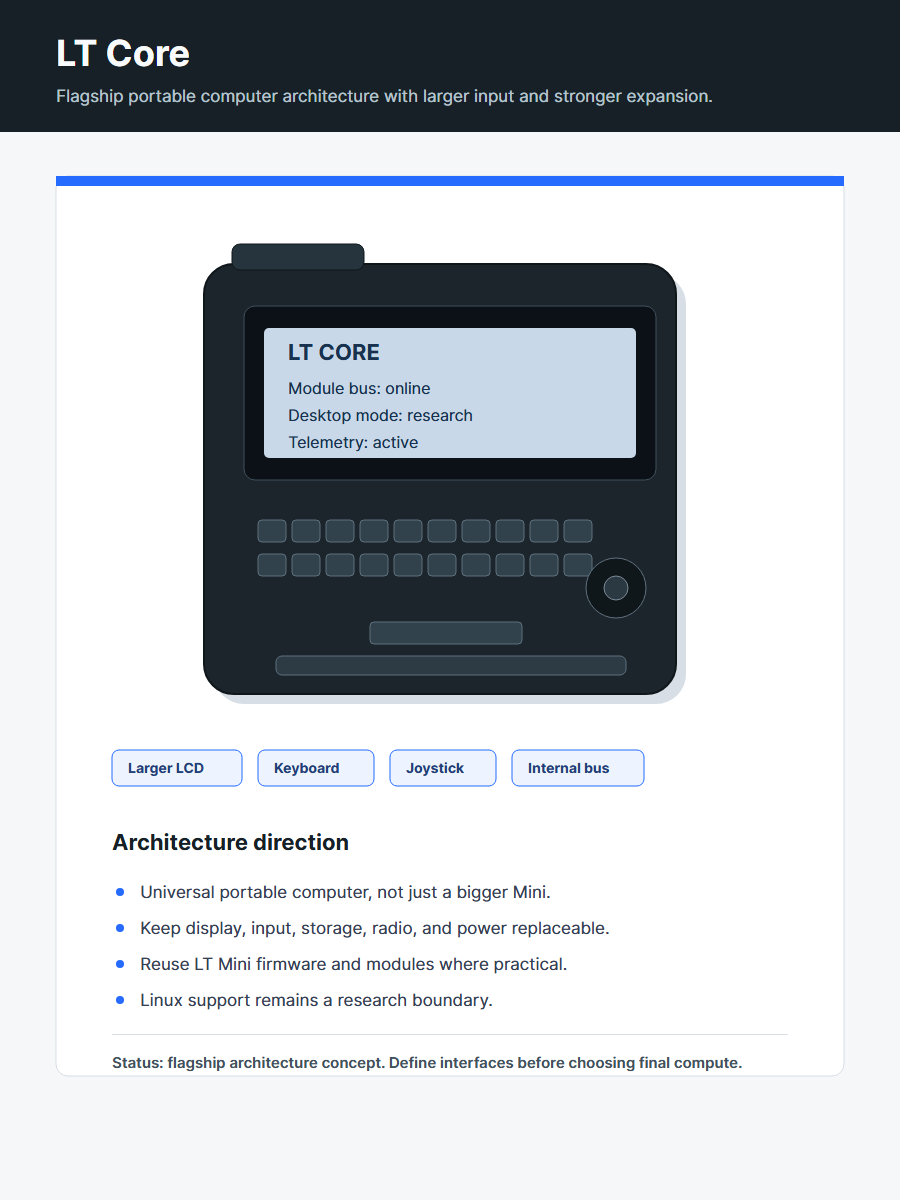
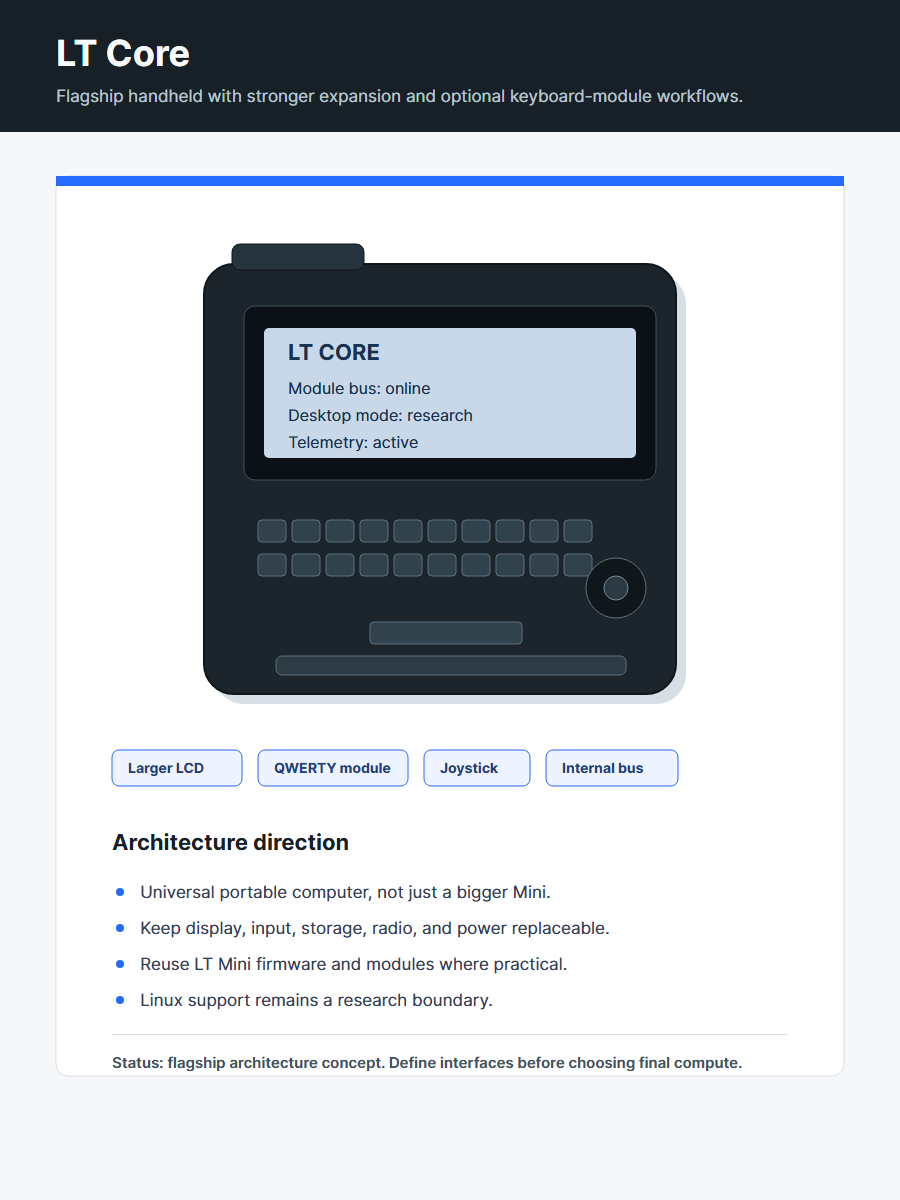
Document modular keyboard direction

Changed region(s): [[0.1556, 0.0617, 0.8089, 0.0925], [0.3111, 0.6167, 0.7156, 0.6475]]

diff --git a/07-industrial-design/form-factor.md b/07-industrial-design/form-factor.md
@@ -1,0 +1,50 @@
+# Form Factor Direction
+
+This document tracks the current physical design direction for LT devices.
+
+## Family Shape
+
+The LT device family should use a consistent handheld shape: rounded, compact,
+tool-like, and closer to a Flipper Zero-style utility device than to a phone or
+tablet.
+
+This is a form-factor reference, not a cloning target. LT should keep its own
+industrial language, connector system, module rules, and interaction model.
+
+## Shared Traits
+
+| Trait | Direction |
+| --- | --- |
+| Body | Rounded handheld enclosure with strong corner radii. |
+| Display | Small functional display, not a media-first screen. |
+| Primary input | Joystick/buttons on the base device. |
+| Keyboard | External or attachable input module unless a product explicitly requires it. |
+| Expansion | Visible connector/module strategy. |
+| Antenna | RF placement treated as an engineering constraint, not decoration. |
+
+## Keyboard Direction
+
+QWERTY should be treated as an input module first.
+
+The base LT Mini should stay simple. LT Core can support keyboard workflows
+through an input module. LT Core Pro may have a more integrated mini-keyboard
+direction, inspired by compact engineering devices like M5Stack Cardputer, but
+it should still preserve the ecosystem module architecture.
+
+## Product Notes
+
+| Product | Form Direction |
+| --- | --- |
+| LT Mini | Flipper-like compact handheld, no built-in QWERTY. |
+| LT Core | Larger Flipper-like handheld with stronger expansion and optional input module support. |
+| LT Core Pro | Linux-capable direction with Raspberry Pi Zero 2 W research and a compact keyboard workflow. |
+
+## Open Questions
+
+| Question | Status |
+| --- | --- |
+| Exact enclosure dimensions | TBD |
+| Module mounting mechanism | TBD |
+| Keyboard module connector | TBD |
+| Antenna location | TBD |
+| Battery and PCB stack height | TBD |

diff --git a/05-modules/input/qwerty-keyboard-module.md b/05-modules/input/qwerty-keyboard-module.md
@@ -1,0 +1,55 @@
+# QWERTY Keyboard Input Module
+
+The QWERTY keyboard should be designed as an input module before it is treated
+as a built-in feature.
+
+This keeps LT Mini simple and lets LT Core-class devices support typing,
+terminal workflows, and command entry without forcing every device to carry a
+keyboard.
+
+## Purpose
+
+- text input
+- terminal commands
+- shortcuts
+- scripting workflows
+- configuration entry
+- desktop-tool interaction
+
+## Reference Direction
+
+M5Stack Cardputer is a useful reference for compact keyboard density and
+engineering-tool interaction. It should be treated as a reference for layout
+thinking, not as a product to copy.
+
+Relevant traits:
+
+- compact 56-key keyboard direction
+- small display + keyboard workflow
+- pocket engineering-tool form factor
+- expansion-friendly device style
+
+## Module Requirements
+
+| Requirement | Status | Notes |
+| --- | --- | --- |
+| Connector | TBD | Must match LT expansion strategy. |
+| Electrical interface | TBD | I2C, UART, GPIO matrix, or custom scan controller are all candidates. |
+| Power budget | TBD | Must not break handheld battery goals. |
+| Mounting | TBD | Should be mechanically stable and removable. |
+| Firmware API | TBD | Should expose key events, not raw GPIO details. |
+
+## Firmware Rules
+
+- Keep keyboard scanning isolated in a driver or module service.
+- Expose normalized key events to applications.
+- Support modifier keys without hard-coding one physical layout into the UI.
+- Keep base-device navigation usable without the keyboard module.
+
+## Product Fit
+
+| Product | Keyboard Role |
+| --- | --- |
+| LT Mini | External module only. |
+| LT Core | Optional module or future variant support. |
+| LT Core Pro | Strong candidate for integrated or semi-integrated mini-keyboard workflow. |

diff --git a/07-industrial-design/concept-board.md b/07-industrial-design/concept-board.md
@@ -8,6 +8,7 @@ The current boards are concept artifacts, not final mechanical designs:
 - [`lt-mini-concept.svg`](lt-mini-concept.svg)
 - [`lt-core-concept.svg`](lt-core-concept.svg)
 - [`lt-core-pro-concept.svg`](lt-core-pro-concept.svg)
+- [`lt-qwerty-input-module-concept.svg`](lt-qwerty-input-module-concept.svg)
 
 PNG exports are generated from the SVG files for easier viewing on GitHub and
 mobile devices:
@@ -16,14 +17,16 @@ mobile devices:
 - [`lt-mini-concept.png`](lt-mini-concept.png)
 - [`lt-core-concept.png`](lt-core-concept.png)
 - [`lt-core-pro-concept.png`](lt-core-pro-concept.png)
+- [`lt-qwerty-input-module-concept.png`](lt-qwerty-input-module-concept.png)
 
 ## Included Products
 
 | Product | Visual Direction |
 | --- | --- |
 | LT Mini | Compact MVP handheld with LCD, joystick, LoRa, USB-C, and expansion direction. |
-| LT Core | Larger flagship handheld with keyboard, joystick, larger display, and internal expansion direction. |
-| LT Core Pro | Future higher-end Core variant with compute-module, Linux, dock, and shared-bus direction. |
+| LT Core | Larger flagship handheld with joystick, larger display, internal expansion, and optional keyboard-module direction. |
+| LT Core Pro | Future higher-end Core variant with compute-module, Linux, compact keyboard workflow, dock, and shared-bus direction. |
+| QWERTY Input Module | External keyboard module direction for terminal and command workflows. |
 
 ## Design Status
 
@@ -42,3 +45,5 @@ mobile devices:
 - Validate real dimensions before PCB or enclosure work.
 - Keep LT Mini visually simple and MVP-focused.
 - Keep LT Core Pro as an extension of LT Core, not a separate ecosystem.
+- Treat QWERTY as a module-first input system unless a later product decision
+  explicitly makes it built in.

diff --git a/02-lt-core/overview.md b/02-lt-core/overview.md
@@ -13,7 +13,7 @@ LT Core should provide:
 - a larger and more capable interface than LT Mini
 - modular hardware expansion
 - internal expansion bus planning
-- keyboard and joystick input options
+- joystick and optional keyboard-module input options
 - desktop mode research
 - Linux-capable future variants
 - strong reuse with LT Mini firmware and modules where practical
@@ -23,7 +23,7 @@ LT Core should provide:
 | Option | Status | Notes |
 | --- | --- | --- |
 | ESP32-S3 | Research | Useful for low-power control, simple UI, and firmware reuse. |
-| Raspberry Pi Zero 2W | Future research | Possible Linux-capable compute option. |
+| Raspberry Pi Zero 2 W | Future research | Possible Linux-capable compute option for Core/Pro-class devices. |
 | Newer compute module | Future research | Should be evaluated only when requirements justify it. |
 
 ## Design Requirements
@@ -40,7 +40,7 @@ LT Core should provide:
 | --- | --- |
 | Final compute architecture | TBD |
 | Display size and interface | TBD |
-| Keyboard layout | TBD |
+| Keyboard module interface | TBD |
 | Internal expansion connector | TBD |
 | Linux support boundary | TBD |
 | Battery and charging architecture | TBD |

diff --git a/02-lt-core/built-in-controls.md b/02-lt-core/built-in-controls.md
@@ -14,15 +14,16 @@ The goal is to keep the device small, inexpensive, and easy to prototype.
 
 ## LT Core Direction
 
-LT Core may use a larger input system:
+LT Core may support a larger input system:
 
-- keyboard
 - joystick
 - function buttons
 - possible modifier keys
+- attachable QWERTY keyboard module
 
-Keyboard decisions should remain separate from firmware architecture. The input
-driver should expose actions or key events without forcing one physical layout.
+Keyboard decisions should remain separate from the base firmware architecture.
+The input driver should expose actions or key events without forcing one
+physical layout.
 
 ## Input Design Rules
 
@@ -31,3 +32,4 @@ driver should expose actions or key events without forcing one physical layout.
 - Document GPIO usage for every button and joystick direction.
 - Debounce behavior should be handled consistently in firmware.
 - Avoid coupling UI screens directly to raw GPIO reads.
+- Keep the base device usable without a QWERTY module.

diff --git a/09-future-products/lt-core-pro.md b/09-future-products/lt-core-pro.md
@@ -10,10 +10,11 @@ ecosystem.
 
 - stronger compute option
 - larger or better display
-- improved keyboard/input system
+- compact keyboard workflow inspired by engineering tools like M5Stack Cardputer
 - more internal expansion
 - desktop mode support
 - Linux-capable software stack
+- Raspberry Pi Zero 2 W or newer compute research
 
 ## Design Rules
 
@@ -22,13 +23,14 @@ ecosystem.
 - Keep module compatibility visible.
 - Keep firmware abstractions shared where practical.
 - Treat Pro features as extensions, not as a separate ecosystem.
+- Treat Cardputer-like keyboard direction as a workflow reference, not a clone.
 
 ## Open Questions
 
 | Question | Status |
 | --- | --- |
-| Compute module | TBD |
+| Compute module | Raspberry Pi Zero 2 W research |
 | Display size | TBD |
-| Keyboard design | TBD |
+| Keyboard design | Compact keyboard / input module direction |
 | Internal bus | TBD |
 | Linux boundary | TBD |

diff --git a/02-lt-mini/overview.md b/02-lt-mini/overview.md
@@ -41,14 +41,15 @@ These limits are part of the product definition, not missing features:
 - no Linux requirement
 - no Pro-only hardware assumptions
 
-GPS can remain possible through the expansion port if the connector and firmware
-architecture support it.
+QWERTY and GPS can remain possible through expansion modules if the connector
+and firmware architecture support them.
 
 ## Engineering Rules
 
 - Keep the board simple enough to prototype.
 - Document GPIO allocation before PCB design.
 - Do not add LT Core Pro requirements to the Mini MVP.
+- Treat QWERTY as an input module, not a base-device requirement.
 - Treat range, battery life, and antenna performance as test results, not
   assumptions.
 - Keep firmware layers reusable for LT Core where practical.

diff --git a/README.md b/README.md
@@ -69,3 +69,6 @@ The first device concept board is available as a local SVG:
 Individual concept boards and PNG exports are documented in
 [`07-industrial-design/concept-board.md`](07-industrial-design/concept-board.md).
 The same direction was started in Figma as `LT Ecosystem Device Concepts`.
+
+Current physical direction is tracked in
+[`07-industrial-design/form-factor.md`](07-industrial-design/form-factor.md).

diff --git a/00-meta/changelog.md b/00-meta/changelog.md
@@ -13,3 +13,5 @@
 - Moved LT Mini into a main MVP product documentation section.
 - Added separate SVG and PNG concept assets for LT Mini, LT Core, and LT Core
   Pro.
+- Documented Flipper-like family form factor direction, QWERTY as an input
+  module, and LT Core Pro's Cardputer-like compact keyboard workflow.
